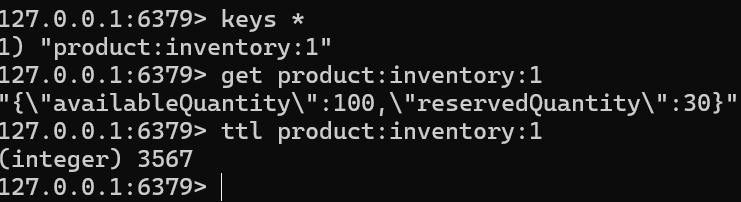
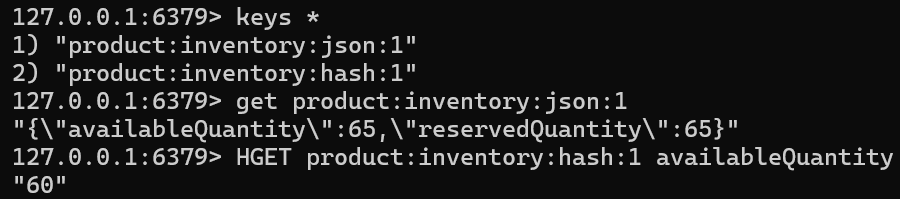
Update keys separators

Changed region(s): [[0.0, 0.4523, 0.9933, 0.9648], [0.0, 0.1809, 0.7449, 0.4523], [0.0, 0.0302, 0.4345, 0.1508]]

diff --git a/src/main/java/com/inv_managemnt/inv_backend/models/Admin.java b/src/main/java/com/inv_managemnt/inv_backend/models/Admin.java
@@ -1,0 +1,34 @@
+package com.inv_managemnt.inv_backend.models;
+
+import jakarta.persistence.*;
+import lombok.AllArgsConstructor;
+import lombok.Getter;
+import lombok.NoArgsConstructor;
+import lombok.Setter;
+import org.hibernate.annotations.CreationTimestamp;
+
+import java.time.LocalDateTime;
+
+@Entity
+@Getter
+@Setter
+@AllArgsConstructor
+@NoArgsConstructor
+public class Admin {
+
+    @Id
+    @GeneratedValue(strategy = GenerationType.SEQUENCE)
+    @SequenceGenerator(name = "admin_seq_gen",
+    sequenceName = "admin_seq_gen",
+    allocationSize = 1)
+    private Integer aid;
+
+    @Column(nullable = false)
+    private String name;
+
+    @Column(nullable = false)
+    private String password;
+
+    @CreationTimestamp
+    private LocalDateTime createdAt;
+}

diff --git a/src/main/java/com/inv_managemnt/inv_backend/services/InventoryService.java b/src/main/java/com/inv_managemnt/inv_backend/services/InventoryService.java
@@ -75,11 +75,12 @@ public class InventoryService {
     }
 
     public GetInvDTO getInv(int pid){
-        String key = "v1:" + keyHelper() + pid;
+        String key = keyHelper() + "json:" + pid;
 
         Object cached = invCache
                         .opsForValue()
                         .get(key);
+
         if(cached instanceof GetInvDTO dto){
             log.info("Hit -> {}",key);
             return dto;
@@ -114,13 +115,12 @@ public class InventoryService {
             throw new ResourceNotFoundException("Insufficient stock!");
         }
 
-        String key = "v2:" + keyHelper() + pid;
+        String key = keyHelper() + "hash:" + pid;
 
         HashOperations<String, Object, Object> hash = invCache.opsForHash();
 
         if(!Boolean.TRUE.equals(invCache.hasKey(key))){
             hash.put(key, "availableQuantity", inv.getAvailableQuantity());
-
             hash.put(key, "reservedQuantity", inv.getReservedQuantity());
         }
 
@@ -143,7 +143,7 @@ public class InventoryService {
             throw  new ResourceNotFoundException("Insufficient stock!");
         }
 
-        String key = "v2:" + keyHelper() + pid;
+        String key = keyHelper() + "hash:" + pid;
 
         HashOperations<String, Object, Object> hash = invCache.opsForHash();
 